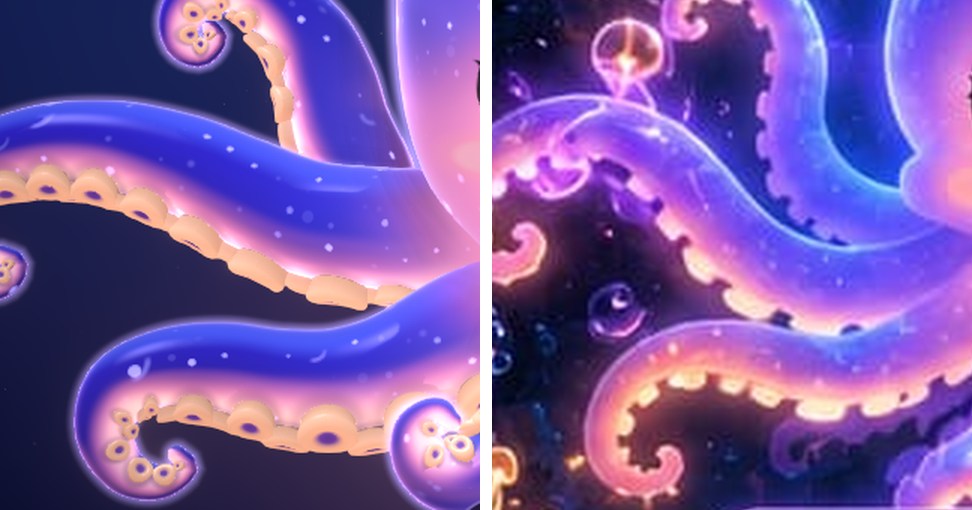
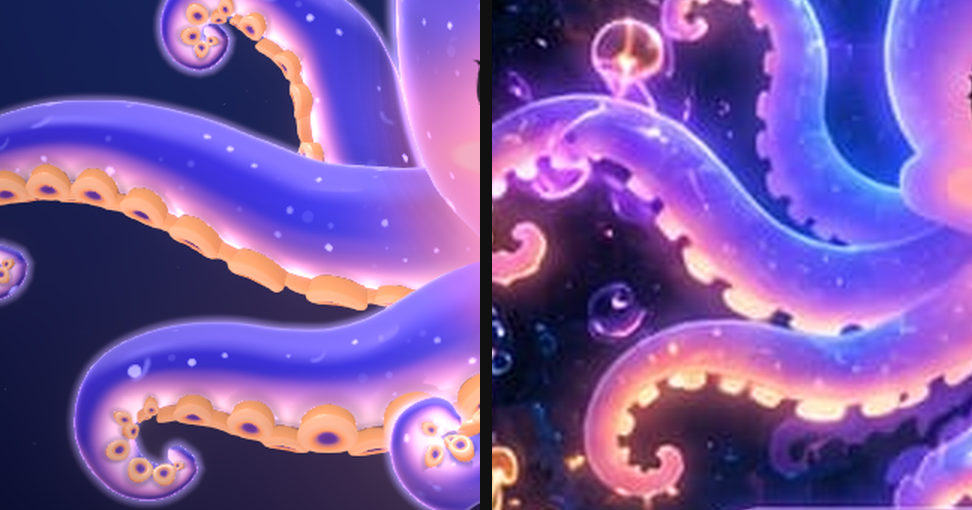
fix(octoverse): host look round 2 and correct delta E windows
host_delta_e.py reads spec 2.1's sample window (x - size//2, size wide),
so P2 reads delta E 0.0 on every sample; the headline count is 12 of 17,
not 13. Round 2 look: violet-lavender arm tops, amber-orange cup walls,
a rounder head, T1 onto P2's arm sample. IoU 0.856, global checks pass.

diff --git a/src/worlds/octoverse/character.ts b/src/worlds/octoverse/character.ts
@@ -83,16 +83,19 @@ export const HOST: CharacterConfig = {
   // A broad, slightly flattened jelly dome (spec 7.1), traced from the P2 mask's rim (row half-widths
   // 0.31 at y 0.29, 0.52 at 0.19, 0.69 at 0.04, 0.80 at -0.06, 0.84 at -0.11): widest at the waist,
   // a generous forehead, the face low; the neck runs full to the chin (P2 chin sample y -1.11).
+  // Task 3 round 2: a taller, rounder dome (top 0.35, topPower 1.7 gives half-widths 0.30, 0.51, 0.70
+  // and 0.78 at those rows, closer than round 1's 0.29, 0.54, 0.73 and 0.80) and softer lower sides
+  // (bottomPower 2.45), so the head no longer reads square at the shoulders and cheeks.
   // No cheek lobes (spec 7.1): the smallest cheeks the shape takes, sunk well inside the mantle,
   // so the outline never leaves the dome line (blend > 0 is the shape's one requirement).
   head: {
     centerX: 0,
     halfWidth: 0.84,
     waist: -0.22,
-    top: 0.33,
+    top: 0.35,
     bottom: -1.25,
-    topPower: 1.9,
-    bottomPower: 2.6,
+    topPower: 1.7,
+    bottomPower: 2.45,
     depth: 0.85,
     faceOrigin: [FACE_ORIGIN[0], FACE_ORIGIN[1]],
     cheeks: { y: -0.8, distance: 0.3, angle: 70, radius: 0.01, blend: 0.01 },
@@ -113,7 +116,7 @@ export const HOST: CharacterConfig = {
     // spread reaches down past the chin so the lower face and chin stay peach, never lavender.
     ramp: [
       [0, '#3848d8'], [0.15, '#5a64f0'], [0.27, '#8070f4'], [0.4, '#d078d0'], [0.55, '#ec8cc8'],
-      [0.7, '#fca4b4'], [0.85, '#fc9a98'], [1, '#ff9480'],
+      [0.7, '#fca6ac'], [0.85, '#fc9a98'], [1, '#ff9480'],
     ],
     cheekWarmth: 0.6,
     underside: 2,
@@ -121,13 +124,13 @@ export const HOST: CharacterConfig = {
     halo: { headWidth: 0.05, armWidth: 0.035, color: '#b49cff', crown: '#5565fc', band: '#ffb0a0', strength: 0.7, bandStrength: 0.6 },
     // In the reef: a soft lavender aura, peach below; the water just outside the head stays deep
     // indigo (2, 22, 72; spec 7.2).
-    aura: { inner: '#040c34', low: '#ff9a80', belowStart: 0.75, radius: 3.2, strength: 0.3 },
+    aura: { inner: '#020a28', low: '#ff9a80', belowStart: 0.75, radius: 3.2, strength: 0.3 },
     grade: { color: '#021648', radius: 4, strength: 1 },
   },
   palette: {
     // The lower face below the glow's reach (the chin and the face's sides) takes this: peach, set a
     // little deeper than the chin sample (253, 181, 183) for the bloom's lift (Task 3).
-    cheek: '#fc9086',
+    cheek: '#fc8a7c',
     headEdge: '#7a5ce8',
     rimTop: '#5565fc',
     rimLow: '#c48cff',
@@ -136,12 +139,14 @@ export const HOST: CharacterConfig = {
     tintCool: '#5060ff',
     tintWarm: '#e080c8',
     wet: '#b0a8ff',
-    // Arm tops blue-violet (58, 55, 213), undersides a peach-pink glow (245, 175, 186; spec 2.1): the
-    // underside band runs from peach-pink to amber toward the cups, at the engine's full strength.
-    armBody: '#3a37d5',
-    terminator: '#ffb0a8',
+    // Arm undersides a peach-pink glow (245, 175, 186; spec 2.1): the underside band runs from
+    // peach-pink to amber toward the cups, at the engine's full strength. The lit arm is violet, lighter
+    // than spec 2.1's blue-violet arm sample (58, 55, 213), which P2 takes in the shaded root beside
+    // the head: there the head blocks the key light and the arm jelly's blue depth carries it.
+    armBody: '#5c48e4',
+    terminator: '#ffbcb4',
     armGlow: '#f5afba',
-    belly: '#ffc8a8',
+    belly: '#ffd4c0',
     // Peach-amber cup rims (248, 197, 159) round a darker violet hollow (spec 7.1).
     suckerEdge: '#e09070',
     suckerBody: '#f8c59f',
@@ -241,13 +246,14 @@ export const HOST: CharacterConfig = {
   armFlatten: 0.86,
   // Large round cups packed into a scalloped frill on each underside, shrinking toward the tip
   // (spec 7.1), in Veyra's frill style: glowing peach-amber rims (248, 197, 159; spec 2.1) on a
-  // warm peach wall, round a darker violet hollow. The warmest light on the character after the
+  // saturated amber-orange wall (round 2: P2's cups read amber, not cream), round a darker violet
+  // hollow. The warmest light on the character after the
   // face (spec 7.2): brighter than any world's cups. Turned only a little toward the viewer (tilt
   // 14) and packed (spacing 2.1), so they read as P2's frill along the edge with the underside glow
   // band above them (Task 3); a stronger glow blooms them to cream and lifts the water.
   suckers: {
     size: 0.3, sizePower: 0.7, spacing: 2.1, elongation: 1.08, tilt: 14, curlTilt: 64, twist: 18, rowAngle: 36, rowRadius: 0.08, shadow: 0.5,
-    style: { rimWidth: 0.45, scallop: 0.8, edge: '#f8c098', rim: '#f8c59f', hollow: '#6a3cb0', glow: 1.4 },
+    style: { rimWidth: 0.45, scallop: 0.8, edge: '#ffa868', rim: '#f8c59f', hollow: '#6a3cb0', glow: 1.4 },
   },
   // Required by the type; never drawn (no stage opens the head).
   dome: { center: [0, 0.2], halfWidth: 1.2, halfHeight: 0.6, depth: 0.6, power: 3, mantleTop: -0.3 },
@@ -270,7 +276,8 @@ export const HOST: CharacterConfig = {
     // Jelly glass on both surfaces (spec 7.2). The mantle: a cool blue crown light (85, 101, 252), a
     // violet depth in the upper dome (128, 78, 230), the peach core (254, 175, 181) glowing through
     // the lower face just below the eyes, and a bright lavender rim all round. The arms: the same
-    // glass, blue-violet on top (58, 55, 213), the peach-pink underside glow (245, 175, 186) from the
+    // glass, a lavender crown over their tops and a blue depth facing the viewer (round 2: P2's arms
+    // read violet-lavender on top, not cobalt), the peach-pink underside glow (245, 175, 186) from the
     // cups warming the roots (a strong arm core). Sparkle specks per square unit: at P2 size the
     // render shows about 110 on the front of the head and several hundred across the arms (spec 2.3
     // asks at least 30 and 50); denser reads as snow, not P2's fine sparkle. The rim is kept thin
@@ -283,7 +290,7 @@ export const HOST: CharacterConfig = {
       },
       arms: {
         mode: 'jelly',
-        jelly: { rim: '#c8b8ff', rimPower: 6, crown: '#5565fc', crownHeight: 0.5, depth: '#3a37d5', depthStrength: 0.4, core: '#f5afba', coreCenter: [0, 0, -0.3], coreWarmth: 1.2 },
+        jelly: { rim: '#c8b8ff', rimPower: 6, crown: '#8a7cff', crownHeight: 0.4, depth: '#3c44f0', depthStrength: 0.48, core: '#f5afba', coreCenter: [0, 0, -0.3], coreWarmth: 1.2 },
         sparkle: 35,
       },
     },

diff --git a/src/worlds/octoverse/poses.ts b/src/worlds/octoverse/poses.ts
@@ -45,10 +45,12 @@ const spread = (id: ArmId, points: readonly Point2[]): Point2[] => {
  * Task 3 re-traced these against the P2 mask with the arms at P2's thickness (root radius 0.22): the
  * shoulder arms sit a little lower, the rising pair a little closer to the head, so the solid flesh
  * beside the head and under the shoulder arms is arm, not water (silhouette IoU, spec 2.2); the centre
- * pair's tips are lifted clear of the pill's edge, where P2's mask stops.
+ * pair's tips are lifted clear of the pill's edge, where P2's mask stops. Round 2 moved T1's rise
+ * 0.02 to 0.06 closer still, closing the gap P2 fills with deep blue beside the head, so spec 2.1's
+ * arm sample (native 165, 305) lies on the arm, not on its rim light.
  */
 const P2_TRACE: Record<ArmId, Point2[]> = {
-  T1: [[-0.9, -1.0], [-1.0, -0.85], [-1.06, -0.71], [-1.08, -0.57], [-1.12, -0.42], [-1.21, -0.3], [-1.35, -0.22], [-1.48, -0.26], [-1.54, -0.34], [-1.53, -0.42], [-1.47, -0.45], [-1.42, -0.4], [-1.44, -0.37]],
+  T1: [[-0.9, -1.0], [-0.96, -0.85], [-1.0, -0.71], [-1.02, -0.57], [-1.07, -0.42], [-1.19, -0.3], [-1.35, -0.22], [-1.48, -0.26], [-1.54, -0.34], [-1.53, -0.42], [-1.47, -0.45], [-1.42, -0.4], [-1.44, -0.37]],
   T2: [[-0.85, -1.05], [-1.1, -1.04], [-1.3, -0.95], [-1.49, -0.83], [-1.69, -0.74], [-1.89, -0.72], [-2.09, -0.78], [-2.23, -0.88], [-2.28, -1.02], [-2.23, -1.15], [-2.13, -1.21], [-2.02, -1.2], [-1.99, -1.14], [-2.04, -1.11]],
   T3: [[-0.55, -1.38], [-0.79, -1.5], [-0.98, -1.52], [-1.18, -1.49], [-1.37, -1.46], [-1.56, -1.49], [-1.7, -1.57], [-1.74, -1.71], [-1.67, -1.84], [-1.56, -1.87], [-1.48, -1.82], [-1.51, -1.78]],
   T4: [[-0.12, -1.25], [-0.2, -1.43], [-0.29, -1.59], [-0.4, -1.74], [-0.53, -1.84], [-0.66, -1.86], [-0.75, -1.8], [-0.77, -1.7], [-0.7, -1.64], [-0.65, -1.67]],

diff --git a/src/worlds/octoverse/character.test.ts b/src/worlds/octoverse/character.test.ts
@@ -17,6 +17,8 @@ const rgb = (hex: string): [number, number, number] => {
   const n = parseInt(hex.slice(1), 16);
   return [(n >> 16) & 255, (n >> 8) & 255, n & 255];
 };
+/** A colour's lightness, roughly: the sum of its channels. */
+const lightness = (hex: string) => rgb(hex).reduce((sum, v) => sum + v, 0);
 
 const mantle = HOST.skin.surfaces?.mantle;
 const arms = HOST.skin.surfaces?.arms;
@@ -69,7 +71,23 @@ describe("spec 2.1's global checks on the config's own colours", () => {
     // Violet: blue over red over green, darker than the rim.
     expect(hb).toBeGreaterThan(hr);
     expect(hr).toBeGreaterThan(hg);
-    expect(hr + hg + hb).toBeLessThan(r + rgb(cups!.rim)[1] + b);
+    expect(lightness(cups!.hollow)).toBeLessThan(lightness(cups!.rim));
+  });
+});
+
+describe('the look, round 2 (P2 side by side)', () => {
+  test('the arm tops are a lighter lavender than the blue-violet arm body', () => {
+    const [r, g, b] = rgb(arms!.jelly!.crown);
+    expect(b).toBeGreaterThan(r);
+    expect(r).toBeGreaterThan(g);
+    expect(lightness(arms!.jelly!.crown)).toBeGreaterThan(lightness(arms!.jelly!.depth));
+  });
+
+  test('the cup wall is a saturated amber-orange, deeper than the peach rim', () => {
+    const [r, g, b] = rgb(cups!.edge);
+    expect(r - b).toBeGreaterThanOrEqual(120);
+    expect(g).toBeGreaterThan(b);
+    expect(rgb(cups!.rim)[2] - b).toBeGreaterThan(40);
   });
 });
 

diff --git a/scripts/host_delta_e.py b/scripts/host_delta_e.py
@@ -3,11 +3,13 @@ the silhouette's IoU with the P2 mask, the mean colour inside it, and the head, 
 Usage: python scripts/host_delta_e.py <still.png> [--overlay out.png] [--json]
 The still is a frozen intro from scripts/platform-capture.mjs: P2's panel (512 x 508 native px) at any whole
 scale (default capture: 1024 x 1016), with its silhouette at <still>-mask.png. Every sample is the mean of the
-square of the listed native size (targets.json `size`) centred on the listed native pixel, in the still at its
-scale; the same square is read on P2 itself (public/octoverse/ref/p2.png) as a sanity column.
+window targets.json's values were read with: native px x0 = x - floor(size / 2) to x0 + size (exclusive), and
+the same in y, scaled by the still's scale; the same window on P2 itself (public/octoverse/ref/p2.png) is a
+sanity column that reads delta E 0.0.
 Shape: from the mask, in stage units (origin native (256, 254), 100 px a unit, +y up). Eyes and mouth are
 located in the still: each eye as its opening (iris, pupil, sclera, lash line) in its half of the face, the
-mouth as its opening (dark plum inside and tongue). Exit 1 when any P2 sample misses delta E 10, a global check fails, or IoU < the target.
+mouth as its opening (dark plum inside and tongue). Exit 1 when any P2 sample misses delta E 10, a global
+check fails, or IoU is under the target.
 --overlay writes the two masks over each other: white both, red P2 only, cyan render only."""
 import json, pathlib, sys
 import numpy as np
@@ -35,9 +37,9 @@ def delta_e(a, b):
 
 
 def area(img, s, x, y, size):
-    """Mean of the size x size native-px square centred on native (x, y), in an image at scale s."""
-    h = size / 2
-    box = (round((x - h) * s), round((y - h) * s), round((x + h) * s), round((y + h) * s))
+    """Mean of targets.json's sample window, native px [x - size // 2, x - size // 2 + size) in x and y, in an image at scale s."""
+    x0, y0 = x - size // 2, y - size // 2
+    box = (round(x0 * s), round(y0 * s), round((x0 + size) * s), round((y0 + size) * s))
     return np.asarray(img.crop(box), dtype=float).reshape(-1, 3).mean(0)
 
 
@@ -75,7 +77,7 @@ def main():
     for t in TARGETS['samples']:
         if t['panel'] != 'p2': continue
         r = area(img, s, t['x'], t['y'], t['size'])
-        p = area(ref, 1, t['x'], t['y'], t['size'])
+        p = area(ref, 1, t['x'], t['y'], t['size']).round()  # targets.json holds rounded means
         d, dp = delta_e(r, t['rgb']), delta_e(p, t['rgb'])
         got[t['name']] = r
         ok = d <= TARGETS['deltaE']
@@ -124,7 +126,7 @@ def main():
         span = (cols[-1] - cols[0] + 1) / 100
         rows = np.nonzero(rm.any(1))[0]
         top = (ORIGIN[1] - rows[0]) / 100
-        # Head half-width: the widest mask run through x = 0 between the top and y -0.3 (above the arms' rise).
+        # Head half-width: the widest mask run through x = 0 from the top down to y -0.1 (above the arms' rise).
         hw = 0
         for py in range(rows[0], ORIGIN[1] + 30):
             row = rm[py]; x0 = x1 = ORIGIN[0]
@@ -132,7 +134,6 @@ def main():
             while x0 > 0 and row[x0 - 1]: x0 -= 1
             while x1 < NATIVE[0] - 1 and row[x1 + 1]: x1 += 1
             if py < ORIGIN[1] + 10: hw = max(hw, (x1 - x0 + 1) / 200)
-        cx = ((cols[0] + cols[-1]) / 2 - ORIGIN[0]) / 100
         print(f'arm span {span:.2f} (target {TARGETS["armSpan"]}), head top {top:.2f} (target {TARGETS["head"]["top"]}), head half-width above y -0.1: {hw:.2f} (target {TARGETS["head"]["halfWidth"]})')
         report['shape'].update({'iou': round(iou, 3), 'span': span, 'top': top, 'headHalfWidth': hw, 'meanInside': [round(float(v)) for v in mean], 'saturation': round(sat, 3)})
         if '--overlay' in a:
@@ -141,16 +142,15 @@ def main():
             Image.fromarray(o).save(a[a.index('--overlay') + 1])
 
     # Face: each eye is the largest blob of eye pixels (dark iris, pupil and lash line, or white sclera
-    # and catchlights) in its half of the face box, its centre the middle of the blob's box less the lash
-    # line (the box's top edge moved down by the dark rows above the first white or iris row is not worth
-    # the fuss: the lash line is about 2 native px, so the centre reads about 1 px high). The mouth is
-    # the opening (dark plum inside and coral tongue), its centre the middle of its box.
+    # and catchlights) in its half of the face box, its centre the middle of the blob's box (the lash line
+    # on top raises it by about 1 native px). The mouth is its opening (dark plum inside and coral tongue),
+    # its centre the middle of its box.
     arr = np.asarray(img, dtype=float)
     x0, y0, x1, y1 = 176, 285, 336, 385
     face = arr[round(y0 * s):round(y1 * s), round(x0 * s):round(x1 * s)]
     lum = face.mean(2)
-    sat = (face.max(2) - face.min(2)) / np.maximum(face.max(2), 1)
-    eyeish = (lum < 80) | ((lum > 225) & (sat < 0.15))
+    chroma = (face.max(2) - face.min(2)) / np.maximum(face.max(2), 1)
+    eyeish = (lum < 80) | ((lum > 225) & (chroma < 0.15))
 
     def largest_box_centre(m):
         lab_, n = label(m)
@@ -176,9 +176,9 @@ def main():
     report['shape'].update({'eyes': eyes, 'mouth': mouth})
 
     # Sparkle specks (spec 2.3: at least 30 on the front of the head, 50 across the arms, at P2 size):
-    # small lavender-white blobs (1 to 16 still px, blue >= red) at least 35 brighter than the 9 x 9 median
-    # round them, inside the
-    # render's silhouette; the head is the mask inside |x| <= 0.84, y above -1.0, the arms the rest.
+    # small lavender-white blobs (1 to 16 still px, blue >= red) at least 35 brighter than the 9 x 9
+    # median round them, inside the render's silhouette. The head is the part inside |x| <= 0.84 and
+    # above y -1.0, the arms the rest.
     if mpath.exists():
         from PIL import ImageFilter
         lum = np.asarray(img.convert('L'), dtype=float)

diff --git a/docs/superpowers/MORNING-REVIEW-platform.md b/docs/superpowers/MORNING-REVIEW-platform.md
@@ -19,12 +19,12 @@ Stills (`docs/superpowers/evidence/platform/m1/`):
 The engine's own title and nameplate show on the stills (the dev page's `ui: 'engine'`); the platform draws its own later.
 
 Numbers (CIE76 delta E against spec 2.1, `python scripts/host_delta_e.py <still>`):
-- 13 of 17 P2 samples within delta E 10 (max of those 9.3, forehead). Misses: head side left 13.4, head side right 19.6, arm upper 41.4, arm underside 20.7, upper water 11.0.
-- Every global check passes: face B - G 13.7 (<= 15), face R - B 60.1 (>= 60), crown B - R 153.6, upper head R - G 36.9, core over head R 120.1, cup R - B 88.1, mid water B 93.1, B - R 72.4.
-- Silhouette IoU 0.855 (>= 0.85; Task 2 was 0.714). Mean inside the P2 mask (161, 116, 194), saturation 0.481 (target (164, 116, 204) +- 12, 0.518 +- 0.04: passes, saturation near its floor).
-- Arm span 4.61 on the render (4.58 from the traces), head top 0.33, eyes (+-0.40, -0.54), mouth opening centre -0.85.
-- Sparkle specks counted on the still: head 113, arms 687 (>= 30, >= 50).
-- Frame rate: 53.2 fps median, slow10 28.4, tier low, production build, under load (four sessions on one Intel UHD; floor 40).
+- 12 of 17 P2 samples within delta E 10 (max of those 9.3, forehead). Misses: head side left 13.3, head side right 19.7, arm upper 18.8, arm underside 14.5, upper water 11.0. (Corrected after review: the first entry said 13 of 17, and the check read each sample a half pixel off spec 2.1's window; fixed, P2 itself now reads delta E 0.0 on every sample.)
+- Every global check passes: face B - G 10.1 (<= 15), face R - B 62.1 (>= 60), crown B - R 153.6, upper head R - G 34.1, core over head R 122.0, cup R - B 108.2, mid water B 92.7, B - R 72.9.
+- Silhouette IoU 0.856 (>= 0.85; Task 2 was 0.714). Mean inside the P2 mask (165, 118, 199), saturation 0.484 (target (164, 116, 204) +- 12, 0.518 +- 0.04: passes, saturation near its floor).
+- Arm span 4.61 on the render, head top 0.35, head half-width 0.80, eyes (+-0.40, -0.54), mouth opening centre -0.85.
+- Sparkle specks counted on the still: head 109, arms 702 (>= 30, >= 50).
+- Frame rate (round 1, before the colour and shape round 2): 53.2 fps median, slow10 28.4, tier low, production build, under load (four sessions on one Intel UHD; floor 40). Round 2 changed colours and the lathe profile only, not geometry counts; not re-measured.
 
 What to check, live at `?world=octoverse&stage=intro` (and `&freeze`):
 1. Reads as its own character, not Aether: peach face (not pink-white), amber cups, blue crown over a violet dome.
@@ -35,6 +35,6 @@ What to check, live at `?world=octoverse&stage=intro` (and `&freeze`):
 
 Known gaps for the owner to rule on:
 - P2 lights the head's right side (134, 131, 253) and shades its left (95, 80, 237), delta E 28.7 apart; the engine's mantle has no directional light, so a symmetric head can get no nearer than about 14.5 to both (BLOCKED on E02b / owner).
-- The arm upper sample sits on T1's inner edge beside the head, where P2 is dark blue and the engine draws the arm's rim light (no per-edge control).
-- The head keeps Task 2's squarish dome (within spec 2.2's numbers); P2's is rounder. The arms are a deeper cobalt than P2's lavender.
+- The arm upper sample (58, 55, 213) is P2's deep blue gap beside the head. Round 2 moved T1 onto it (it had read the arm's rim light) and made the lit arms violet-lavender as P2's are, so the sample now reads the shaded arm root (90, 69, 196), delta E 18.8; nearer needs bluer arms all over.
+- Round 2 made the head rounder (top 0.35, topPower 1.7, bottomPower 2.45) and the cups amber-orange; the arms are still a little bluer and darker than P2's, whose tops run pink-lavender.
 

diff --git a/docs/superpowers/reviews/platform.md b/docs/superpowers/reviews/platform.md
@@ -105,7 +105,7 @@ Platform gaps found (scheduled as a later E02b; not patched here):
 
 ## Task 3: the host's look (2026-11-04)
 
-**Verdict: provisional, pending owner.** The look meets the global checks, IoU and the shape targets; 13 of 17 P2 samples are within delta E 10. Gate review entry in `docs/superpowers/MORNING-REVIEW-platform.md`.
+**Verdict: provisional, pending owner.** The look meets the global checks, IoU and the shape targets; 12 of 17 P2 samples are within delta E 10 (corrected after review from 13; see round 2 below). Gate review entry in `docs/superpowers/MORNING-REVIEW-platform.md`.
 
 ### What landed
 
@@ -151,3 +151,9 @@ Platform gaps found (scheduled as a later E02b; not patched here):
 4. Mean saturation 0.481 is near the floor (0.478): lighter arms or brighter cups push it out.
 5. A full `npx vitest run` under load times out 1 to 3 python-spawning tests in `src/worlds/reviewTooling.test.ts` (5 s limit); the file passes alone (3 of 3). Not touched by this task.
 
+### Round 2 (review fix, 2026-11-04)
+
+- `scripts/host_delta_e.py` read every sample from a window centred on the listed pixel; spec 2.1's targets were read from `x - floor(size/2)` to `x - floor(size/2) + size`. Fixed, so P2 reads delta E 0.0 on every sample (cup rim (248, 197, 159), arm underside (245, 175, 186)). On the round 1 still the fixed window gives 12 of 17, not the 13 of 17 first reported (arm upper 43.6, arm underside 11.2).
+- Look: violet-lavender arm tops (arm crown `#8a7cff` from height 0.4, armBody `#5c48e4`, arm depth `#3c44f0` at 0.48), amber-orange cup walls (edge `#ffa868`), lighter underside band (terminator `#ffbcb4`, belly `#ffd4c0`), a rounder head (top 0.35, topPower 1.7, bottomPower 2.45) and T1 moved 0.02 to 0.06 toward the head.
+- Result: 12 of 17 within delta E 10 (arm upper 43.6 to 18.8, arm underside 11.2 to 14.5, cup rim 5.0 to 9.3; the rest within 2), every global check passes, IoU 0.856, mean inside passes (saturation 0.484 against a 0.478 floor).
+- Still open: the head sides need one-sided mantle light (BLOCKED on E02b / owner); arm upper is P2's deep blue gap and fights the lighter arms; upper water 11.0 (brightening it further lifts mid water and the water by the head).
